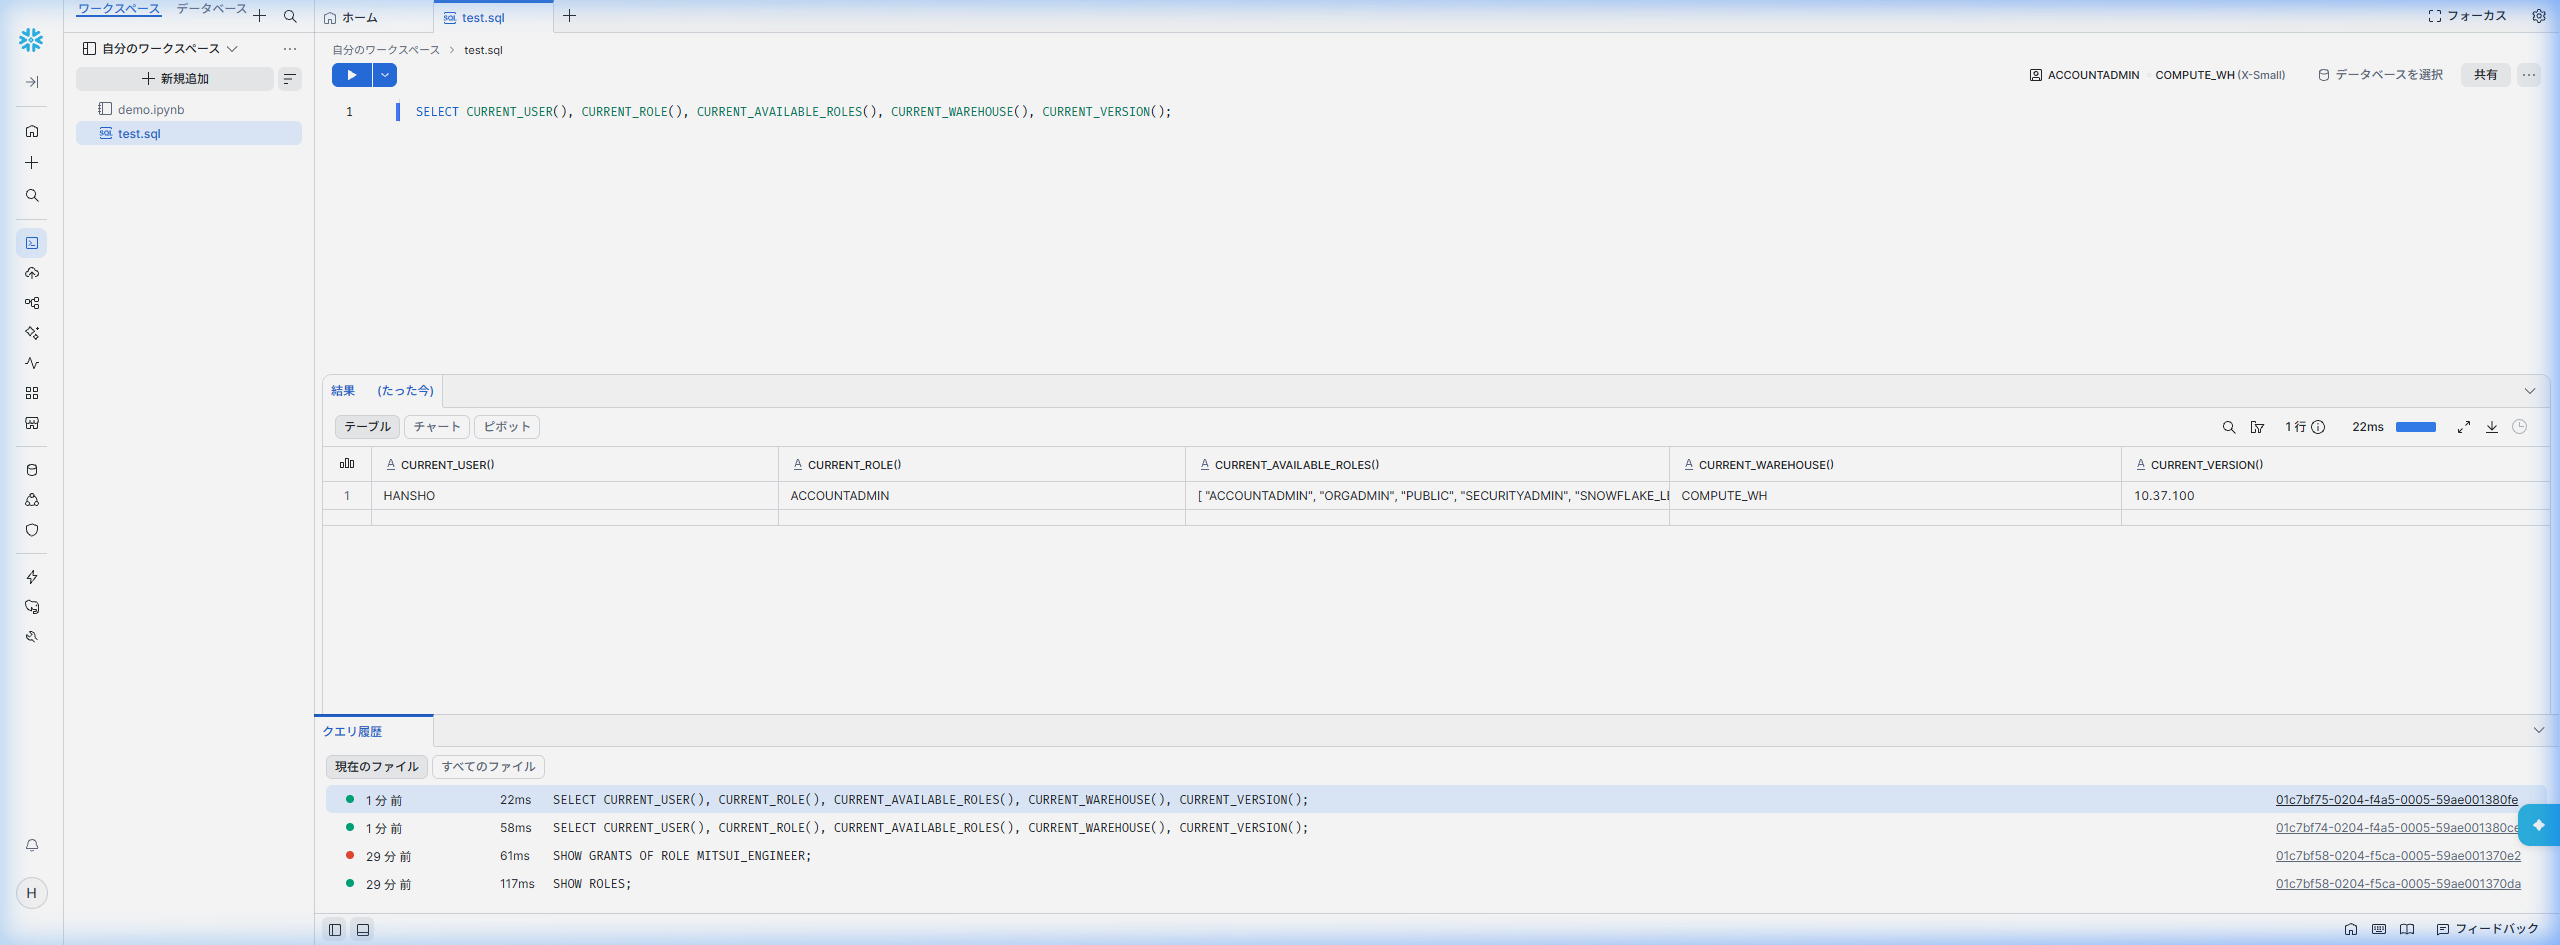
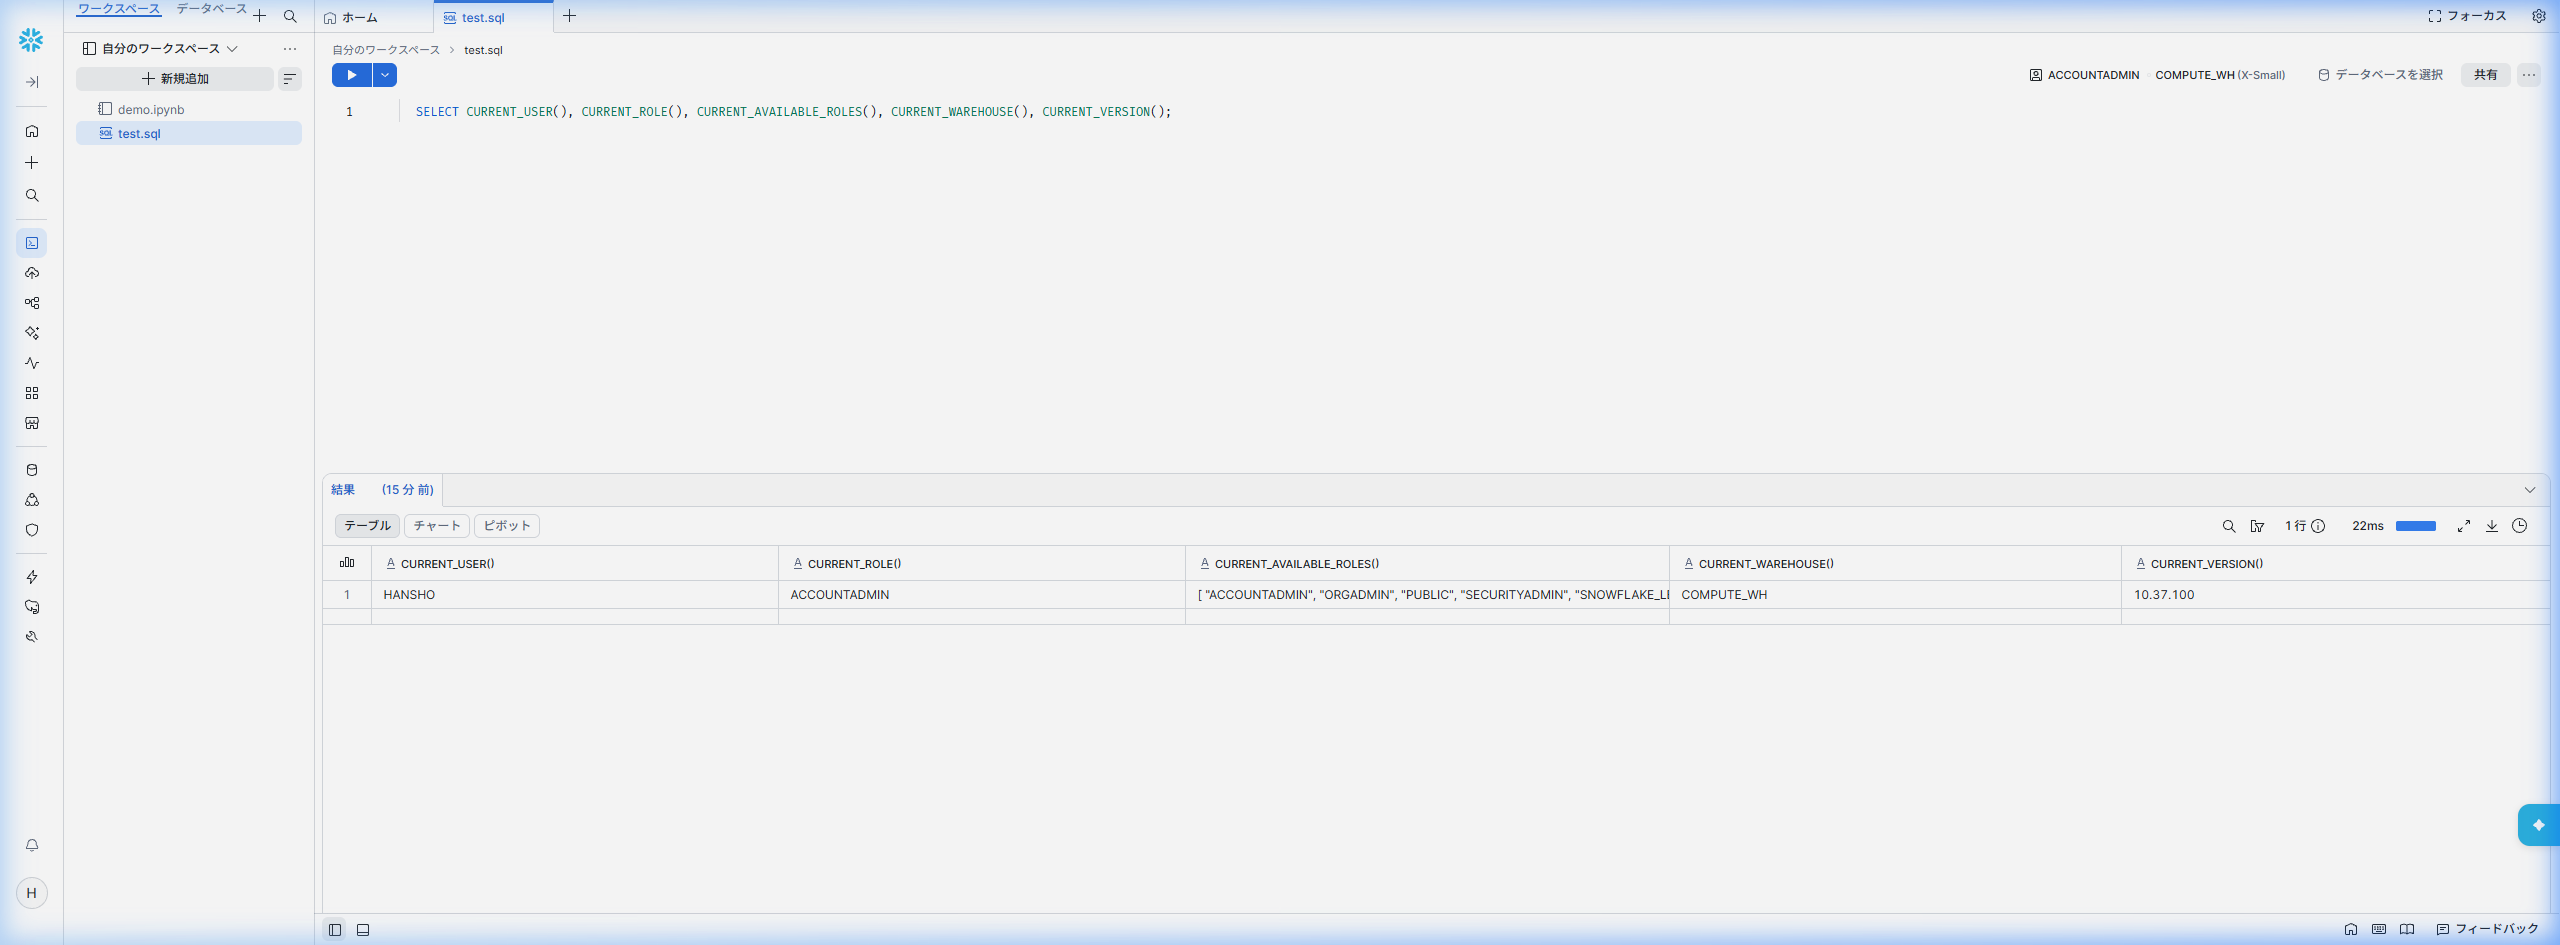
docs: clean worksheet screenshot (01_img_15) and add Context Selector (01_img_16) and Query Details (01_img_17)

diff --git a/docs/ja/01_snowflake_signup.md b/docs/ja/01_snowflake_signup.md
@@ -107,9 +107,20 @@ SELECT
 実行後、画面下部にセッションコンテキスト情報、処理時間（例：22ms）、および監査用の一意な Query ID がリアルタイムに表示されます：
 ![SQL実行と結果・履歴パネル](../images/01_img_15.png)
 
-### 5.4 SQL ワークシート主要コンポーネントの確認
-* **コンテキストセレクター（Context Selector）**：エディタ右上に配置され、実行ロール（Role）、計算ウェアハウス（Warehouse）、接続先データベース/スキーマを即座に切り替えることができます；
-* **実行コントロール（Run Controls）**：1行実行、選択範囲実行、またはシート内全件一括実行に対応しています；
-* **結果・クエリ履歴パネル（Results & Query History）**：実行結果の表形式プレビュー、影響行数、処理ミリ秒、および一意の Query ID をリアルタイムに確認できます。
+### 5.4 コンテキストセレクター（Context Selector）の操作詳細
+Snowsight エディタの右上には、日常業務で頻繁に使用する **コンテキストセレクター（Context Selector）** が配置されています。
+カレントロールやウェアハウスの表示領域をクリックすると、2ペイン構成の切り替えドロワーが展開されます：
+- **左ペイン（ロールを使用 / Role Selector）**：`ACCOUNTADMIN`、`SYSADMIN`、`USERADMIN`、および今後作成する業務ロールをワンクリックで切り替え可能（`USE ROLE` コマンドの手動入力を省略できます）；
+- **右ペイン（ウェアハウスを使用 / Warehouse Selector）**：実行するワークロードの重さに応じて、適切なコンピュートサイズ（例：`COMPUTE_WH (X-Small)` など）を選択できます。
+
+![コンテキストセレクターとロール・ウェアハウス切り替え](../images/01_img_16.png)
+
+### 5.5 グローバルクエリ監査とプロファイル詳細（Query Details & Profile）
+Snowflake では、実行されたすべての SQL に対して一意の **Query ID**（例：`01c7bf74-0204-f4a5-0005-59ae001380ce`）が自動採番されます。
+クエリ結果または履歴一覧の Query ID をクリックすることで、**「クエリの詳細（Query Details）」** および **「クエリプロファイル（Query Profile）」** 画面へ遷移できます：
+- **実行メタデータと監査証跡**：SQL 本文、実行開始/終了時刻、クライアントドライバ情報（Go 2.1.0）、セッション ID、消費クレジット等を網羅的に把握可能；
+- **実行計画ツリー（Profile Graph）**：システム関数の実行時などではメタデータ層のみで瞬時に応答する様子（`METADATA-BASED RESULT`、実行時間 1ms レベル）がグラフィカルに可視化され、ディスク I/O を発生させないアーキテクチャの優位性を確認できます。
+
+![クエリ詳細画面と監査・プロファイル機能](../images/01_img_17.png)
 
 基本操作の確認が完了しました。次章以降では、移行元となるオンプレミス Oracle 環境の準備、および三井証券向け企業級 RBAC 権限モデルと本番オブジェクトの構築へと進みます。

diff --git a/docs/zh/01_snowflake_signup.md b/docs/zh/01_snowflake_signup.md
@@ -106,9 +106,20 @@ SELECT
 执行后可在下方实时看到会话上下文、执行耗时（如 22ms）与全局 Query ID：
 ![SQL执行与结果面板](../images/01_img_15.png)
 
-### 5.4 SQL 工作台核心组件速览
-* **上下文选择器（Context Selector）**：位于编辑器右上角，用于随时切换当前会话生效的角色（Role）、计算仓库（Warehouse）以及默认数据库/Schema；
-* **执行控制（Run Controls）**：支持单行执行、高亮选中文本执行或全表依次批量运行；
-* **结果与历史面板（Results & Query History）**：底部实时返回结构化表格数据、受影响行数、查询执行耗时（毫秒级）及全局 Query ID，方便审计追踪。
+### 5.4 上下文选择器（Context Selector）深度解析
+在 Snowsight 编辑器的右上角，提供了一个至关重要的交互组件——**上下文选择器（Context Selector）**：
+点击当前激活的角色或仓库标签，会弹出双列切换抽屉：
+- **左列（ロールを使用 / Role Selector）**：可实时在 `ACCOUNTADMIN`、`SYSADMIN`、`USERADMIN` 以及未来创建的业务角色之间无缝切换，无需反复手写 `USE ROLE` 语句；
+- **右列（ウェアハウスを使用 / Warehouse Selector）**：可根据当前计算负载选择算力规格（如 `COMPUTE_WH` 等）。
+
+![上下文选择器与角色/仓库切换](../images/01_img_16.png)
+
+### 5.5 全局查询审计与性能详情（Query Details & Profile）
+Snowflake 为每一条执行的 SQL 语句都会自动生成唯一的全局 **Query ID**（如 `01c7bf74-0204-f4a5-0005-59ae001380ce`）。
+点击查询结果或右侧 Query ID，可直接跳转至 **「クエリの詳細（Query Details）」** 与 **「クエリプロファイル（Query Profile）」** 页面：
+- **执行元数据与合规审计**：精准记录完整 SQL 文本、执行开始/结束时间、驱动版本（如 Go 2.1.0）、会话 ID 及计费 Credits；
+- **执行计划树（Profile Graph）**：对于系统内置函数查询，系统直接通过高并发元数据层瞬时完成（`METADATA-BASED RESULT`），耗时仅 1ms 级别，无需唤醒任何底层物理磁盘扫描。
+
+![全局查询审计与性能详情](../images/01_img_17.png)
 
 完成上述基本熟悉后，账号基础环境与操作入口均已完备。接下来请进入后续章节，我们将开启本地 Oracle 环境准备及三井证券企业级 RBAC 权限体系与生产对象的全套构建！
